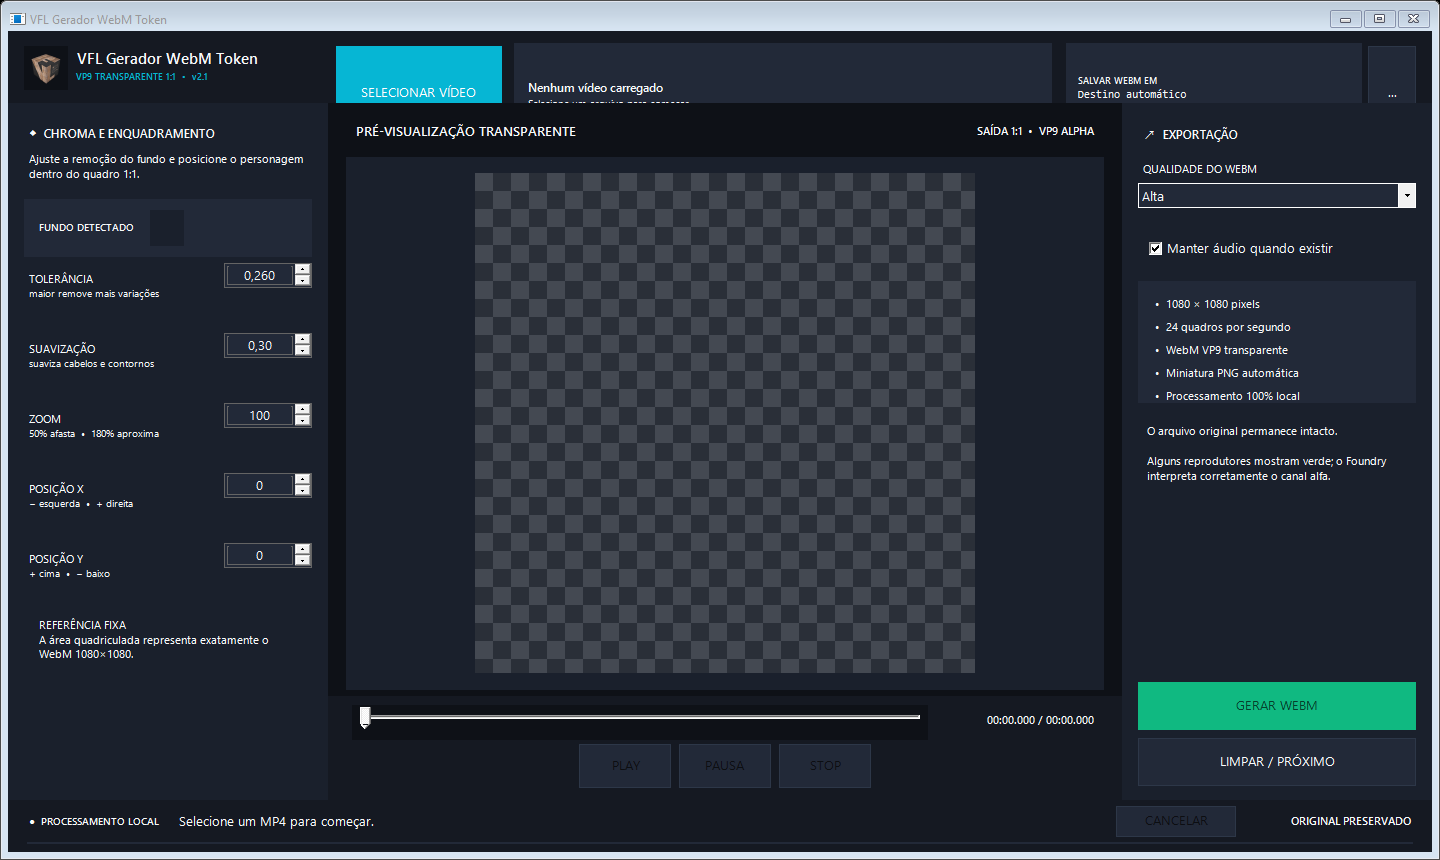
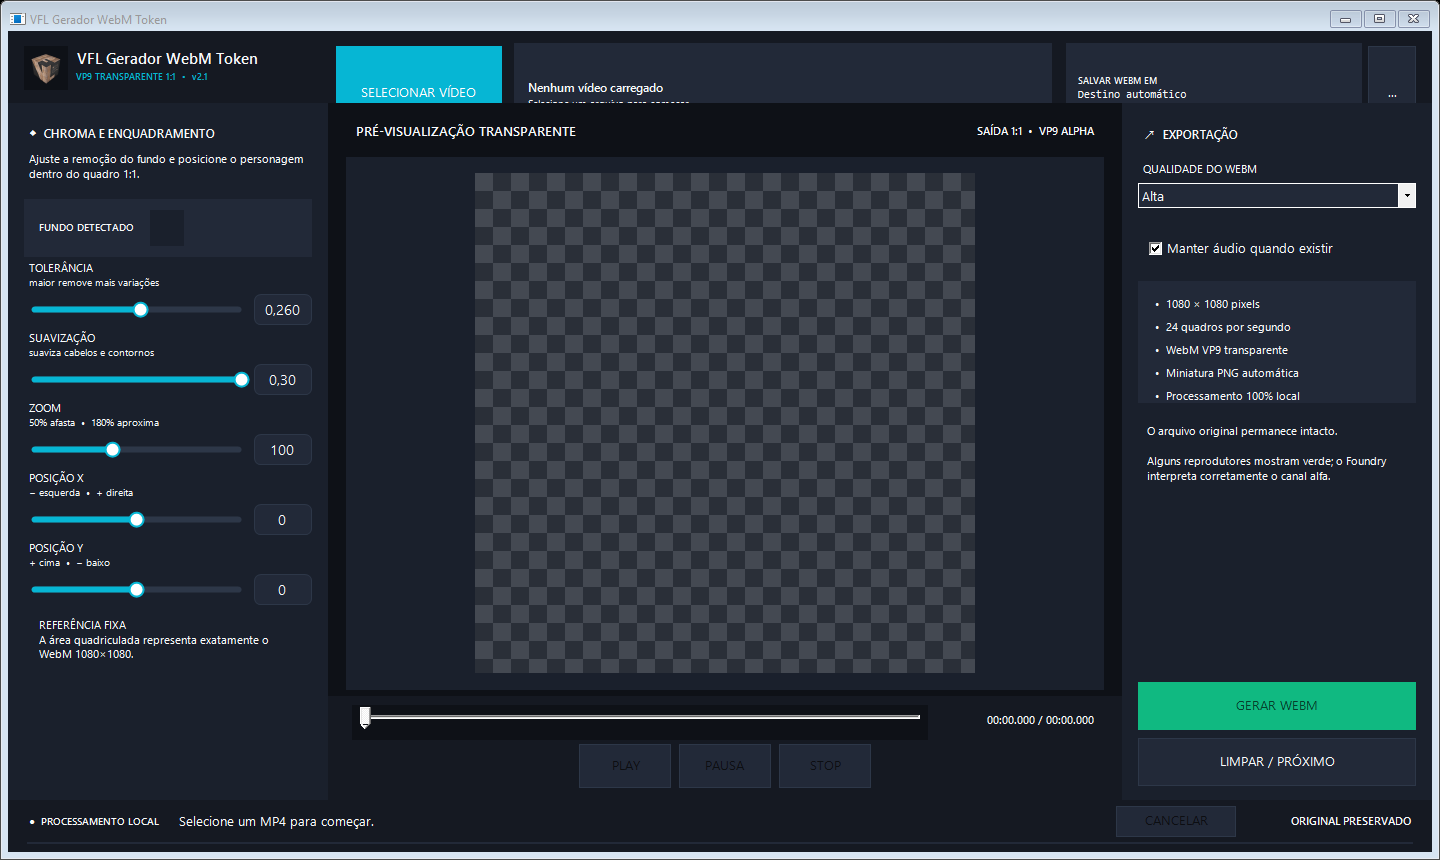
Replace framing inputs with visual sliders

Changed region(s): [[0.0, 0.3023, 0.2188, 0.6953]]

diff --git a/ValueSlider.cs b/ValueSlider.cs
@@ -1,0 +1,168 @@
+using System.Drawing.Drawing2D;
+
+namespace VFL.GeradorWebMToken;
+
+internal sealed class ValueSlider : Control
+{
+    private decimal _minimum;
+    private decimal _maximum = 100;
+    private decimal _value;
+    private decimal _increment = 1;
+    private bool _dragging;
+
+    public event EventHandler? ValueChanged;
+
+    public decimal Minimum
+    {
+        get => _minimum;
+        set { _minimum = value; Value = _value; Invalidate(); }
+    }
+
+    public decimal Maximum
+    {
+        get => _maximum;
+        set { _maximum = Math.Max(value, _minimum); Value = _value; Invalidate(); }
+    }
+
+    public decimal Increment
+    {
+        get => _increment;
+        set => _increment = value <= 0 ? 1 : value;
+    }
+
+    public int DecimalPlaces { get; set; }
+
+    public decimal Value
+    {
+        get => _value;
+        set
+        {
+            var next = Math.Min(_maximum, Math.Max(_minimum, value));
+            if (_increment > 0)
+                next = _minimum + Math.Round((next - _minimum) / _increment, MidpointRounding.AwayFromZero) * _increment;
+            next = Math.Min(_maximum, Math.Max(_minimum, next));
+            if (_value == next) return;
+            _value = next;
+            Invalidate();
+            ValueChanged?.Invoke(this, EventArgs.Empty);
+        }
+    }
+
+    public ValueSlider()
+    {
+        SetStyle(ControlStyles.AllPaintingInWmPaint | ControlStyles.OptimizedDoubleBuffer |
+                 ControlStyles.ResizeRedraw | ControlStyles.UserPaint | ControlStyles.Selectable |
+                 ControlStyles.SupportsTransparentBackColor, true);
+        Height = 30;
+        Cursor = Cursors.Hand;
+        TabStop = true;
+        BackColor = Color.Transparent;
+    }
+
+    protected override void OnPaint(PaintEventArgs e)
+    {
+        base.OnPaint(e);
+        e.Graphics.SmoothingMode = SmoothingMode.AntiAlias;
+
+        const int valueWidth = 58;
+        const int knobSize = 14;
+        var trackLeft = 7;
+        var trackRight = Math.Max(trackLeft + 1, Width - valueWidth - 13);
+        var centerY = Height / 2;
+        var track = new Rectangle(trackLeft, centerY - 3, trackRight - trackLeft, 6);
+        var ratio = _maximum == _minimum ? 0d : (double)((_value - _minimum) / (_maximum - _minimum));
+        var knobX = track.Left + (int)Math.Round(track.Width * ratio);
+
+        using var trackPath = RoundedRectangle(track, 3);
+        using var trackBrush = new SolidBrush(Theme.Border);
+        e.Graphics.FillPath(trackBrush, trackPath);
+
+        if (knobX > track.Left)
+        {
+            var fill = new Rectangle(track.Left, track.Top, knobX - track.Left, track.Height);
+            using var fillPath = RoundedRectangle(fill, 3);
+            using var fillBrush = new SolidBrush(Enabled ? Theme.Primary : Theme.Dim);
+            e.Graphics.FillPath(fillBrush, fillPath);
+        }
+
+        using var knobBrush = new SolidBrush(Enabled ? Color.White : Theme.Muted);
+        using var knobBorder = new Pen(Enabled ? Theme.Primary : Theme.Dim, 2);
+        var knob = new Rectangle(knobX - knobSize / 2, centerY - knobSize / 2, knobSize, knobSize);
+        e.Graphics.FillEllipse(knobBrush, knob);
+        e.Graphics.DrawEllipse(knobBorder, knob);
+
+        var valueBox = new Rectangle(Width - valueWidth, 2, valueWidth - 1, Height - 4);
+        using var valuePath = RoundedRectangle(valueBox, 6);
+        using var valueBrush = new SolidBrush(Theme.Field);
+        using var valueBorder = new Pen(ContainsFocus ? Theme.Primary : Theme.Border);
+        e.Graphics.FillPath(valueBrush, valuePath);
+        e.Graphics.DrawPath(valueBorder, valuePath);
+
+        var format = DecimalPlaces <= 0 ? "0" : "0." + new string('0', DecimalPlaces);
+        TextRenderer.DrawText(e.Graphics, _value.ToString(format), Font, valueBox, Enabled ? Theme.Text : Theme.Muted,
+            TextFormatFlags.HorizontalCenter | TextFormatFlags.VerticalCenter | TextFormatFlags.NoPadding);
+    }
+
+    protected override void OnMouseDown(MouseEventArgs e)
+    {
+        base.OnMouseDown(e);
+        if (e.Button != MouseButtons.Left || !Enabled) return;
+        Focus();
+        _dragging = true;
+        SetFromMouse(e.X);
+    }
+
+    protected override void OnMouseMove(MouseEventArgs e)
+    {
+        base.OnMouseMove(e);
+        if (_dragging) SetFromMouse(e.X);
+    }
+
+    protected override void OnMouseUp(MouseEventArgs e)
+    {
+        base.OnMouseUp(e);
+        _dragging = false;
+    }
+
+    protected override void OnMouseWheel(MouseEventArgs e)
+    {
+        base.OnMouseWheel(e);
+        if (Enabled) Value += e.Delta > 0 ? Increment : -Increment;
+    }
+
+    protected override bool IsInputKey(Keys keyData) =>
+        keyData is Keys.Left or Keys.Right or Keys.Up or Keys.Down || base.IsInputKey(keyData);
+
+    protected override void OnKeyDown(KeyEventArgs e)
+    {
+        base.OnKeyDown(e);
+        if (e.KeyCode is Keys.Right or Keys.Up) { Value += Increment; e.Handled = true; }
+        else if (e.KeyCode is Keys.Left or Keys.Down) { Value -= Increment; e.Handled = true; }
+    }
+
+    protected override void OnGotFocus(EventArgs e) { base.OnGotFocus(e); Invalidate(); }
+    protected override void OnLostFocus(EventArgs e) { base.OnLostFocus(e); Invalidate(); }
+    protected override void OnEnabledChanged(EventArgs e) { base.OnEnabledChanged(e); Invalidate(); }
+
+    private void SetFromMouse(int mouseX)
+    {
+        const int valueWidth = 58;
+        var left = 7;
+        var right = Math.Max(left + 1, Width - valueWidth - 13);
+        var ratio = Math.Clamp((mouseX - left) / (double)(right - left), 0, 1);
+        Value = _minimum + (decimal)ratio * (_maximum - _minimum);
+    }
+
+    private static GraphicsPath RoundedRectangle(Rectangle bounds, int radius)
+    {
+        var path = new GraphicsPath();
+        var diameter = Math.Min(radius * 2, Math.Min(bounds.Width, bounds.Height));
+        if (diameter <= 1) { path.AddRectangle(bounds); return path; }
+        path.AddArc(bounds.Left, bounds.Top, diameter, diameter, 180, 90);
+        path.AddArc(bounds.Right - diameter, bounds.Top, diameter, diameter, 270, 90);
+        path.AddArc(bounds.Right - diameter, bounds.Bottom - diameter, diameter, diameter, 0, 90);
+        path.AddArc(bounds.Left, bounds.Bottom - diameter, diameter, diameter, 90, 90);
+        path.CloseFigure();
+        return path;
+    }
+}

diff --git a/MainForm.cs b/MainForm.cs
@@ -6,23 +6,11 @@ internal sealed class MainForm : Form
 {
     private readonly TextBox _input = new();
     private readonly TextBox _output = new();
-    private readonly NumericUpDown _similarity = Number(0.001m, 0.5m, 0.260m, 0.001m, 3);
-    private readonly NumericUpDown _blend = Number(0, 0.3m, 0.30m, 0.01m);
-    private readonly NumericUpDown _zoom = new()
-    {
-        Minimum = 50, Maximum = 180, Value = 100, Increment = 5,
-        DecimalPlaces = 0, TextAlign = HorizontalAlignment.Center
-    };
-    private readonly NumericUpDown _positionX = new()
-    {
-        Minimum = -400, Maximum = 400, Value = 0, Increment = 10,
-        DecimalPlaces = 0, TextAlign = HorizontalAlignment.Center
-    };
-    private readonly NumericUpDown _positionY = new()
-    {
-        Minimum = -400, Maximum = 400, Value = 0, Increment = 10,
-        DecimalPlaces = 0, TextAlign = HorizontalAlignment.Center
-    };
+    private readonly ValueSlider _similarity = Slider(0.001m, 0.5m, 0.260m, 0.001m, 3);
+    private readonly ValueSlider _blend = Slider(0, 0.3m, 0.30m, 0.01m, 2);
+    private readonly ValueSlider _zoom = Slider(50, 180, 100, 5, 0);
+    private readonly ValueSlider _positionX = Slider(-400, 400, 0, 10, 0);
+    private readonly ValueSlider _positionY = Slider(-400, 400, 0, 10, 0);
     private readonly ComboBox _quality = new() { DropDownStyle = ComboBoxStyle.DropDownList };
     private readonly CheckBox _keepAudio = new() { Text = "Manter áudio quando existir", Checked = true, AutoSize = true };
     private readonly CheckerPreview _preview = new() { Dock = DockStyle.Fill };
@@ -239,14 +227,16 @@ internal sealed class MainForm : Form
         Font = new Font("Segoe UI Semibold", 9), TextAlign = ContentAlignment.MiddleLeft
     };
 
-    private static Control StackedNumber(string title, NumericUpDown number, string hint)
+    private static Control StackedNumber(string title, ValueSlider slider, string hint)
     {
-        var row = new TableLayoutPanel { Dock = DockStyle.Fill, RowCount = 2, ColumnCount = 2, Tag = "sidebar", Margin = Padding.Empty };
-        row.RowStyles.Add(new RowStyle(SizeType.Absolute, 30)); row.RowStyles.Add(new RowStyle(SizeType.Percent, 100));
-        row.ColumnStyles.Add(new ColumnStyle(SizeType.Percent, 100)); row.ColumnStyles.Add(new ColumnStyle(SizeType.Absolute, 88));
+        var row = new TableLayoutPanel { Dock = DockStyle.Fill, RowCount = 3, Tag = "sidebar", Margin = Padding.Empty };
+        row.RowStyles.Add(new RowStyle(SizeType.Absolute, 19));
+        row.RowStyles.Add(new RowStyle(SizeType.Absolute, 15));
+        row.RowStyles.Add(new RowStyle(SizeType.Percent, 100));
         row.Controls.Add(new Label { Text = title, Dock = DockStyle.Fill, ForeColor = Theme.Muted, Font = new Font("Segoe UI", 8.3f), TextAlign = ContentAlignment.BottomLeft }, 0, 0);
-        number.Dock = DockStyle.Fill; number.Margin = new Padding(0, 6, 0, 6); row.Controls.Add(number, 1, 0); row.SetRowSpan(number, 2);
-        row.Controls.Add(new Label { Text = hint, Dock = DockStyle.Fill, ForeColor = Theme.Dim, Font = new Font("Segoe UI", 7.3f), TextAlign = ContentAlignment.TopLeft }, 0, 1); return row;
+        row.Controls.Add(new Label { Text = hint, Dock = DockStyle.Fill, ForeColor = Theme.Dim, Font = new Font("Segoe UI", 7.3f), TextAlign = ContentAlignment.TopLeft }, 0, 1);
+        slider.Dock = DockStyle.Fill; slider.Margin = new Padding(0, 1, 0, 1); row.Controls.Add(slider, 0, 2);
+        return row;
     }
 
     private static Control StackedCombo(string title, ComboBox combo)
@@ -436,12 +426,12 @@ internal sealed class MainForm : Form
         return row;
     }
 
-    private static Control SettingRow(string label, NumericUpDown number, string hint)
+    private static Control SettingRow(string label, ValueSlider slider, string hint)
     {
         var row = new TableLayoutPanel { Dock = DockStyle.Fill, ColumnCount = 3, Tag = "surface" };
-        row.ColumnStyles.Add(new ColumnStyle(SizeType.Absolute, 130)); row.ColumnStyles.Add(new ColumnStyle(SizeType.Absolute, 90)); row.ColumnStyles.Add(new ColumnStyle(SizeType.Percent, 100));
+        row.ColumnStyles.Add(new ColumnStyle(SizeType.Absolute, 110)); row.ColumnStyles.Add(new ColumnStyle(SizeType.Percent, 100)); row.ColumnStyles.Add(new ColumnStyle(SizeType.Absolute, 165));
         row.Controls.Add(new Label { Text = label.ToUpperInvariant(), Dock = DockStyle.Fill, ForeColor = Theme.Muted, TextAlign = ContentAlignment.MiddleLeft }, 0, 0);
-        number.Dock = DockStyle.Fill; number.Margin = new Padding(0, 12, 10, 12); row.Controls.Add(number, 1, 0);
+        slider.Dock = DockStyle.Fill; slider.Margin = new Padding(0, 8, 10, 8); row.Controls.Add(slider, 1, 0);
         row.Controls.Add(new Label { Text = hint, Dock = DockStyle.Fill, ForeColor = Theme.Muted, TextAlign = ContentAlignment.MiddleLeft, Font = new Font("Segoe UI", 8) }, 2, 0);
         return row;
     }
@@ -797,8 +787,8 @@ internal sealed class MainForm : Form
         Location = new Point(area.Left + (area.Width - Width) / 2, area.Top + (area.Height - Height) / 2);
     }
 
-    private static NumericUpDown Number(decimal min, decimal max, decimal value, decimal increment, int decimalPlaces = 2) =>
-        new() { Minimum = min, Maximum = max, Value = value, Increment = increment, DecimalPlaces = decimalPlaces, TextAlign = HorizontalAlignment.Center };
+    private static ValueSlider Slider(decimal min, decimal max, decimal value, decimal increment, int decimalPlaces) =>
+        new() { Minimum = min, Maximum = max, Value = value, Increment = increment, DecimalPlaces = decimalPlaces, Tag = "surface" };
 
     private static decimal Clamp(decimal value, decimal minimum, decimal maximum) =>
         Math.Min(maximum, Math.Max(minimum, value));
